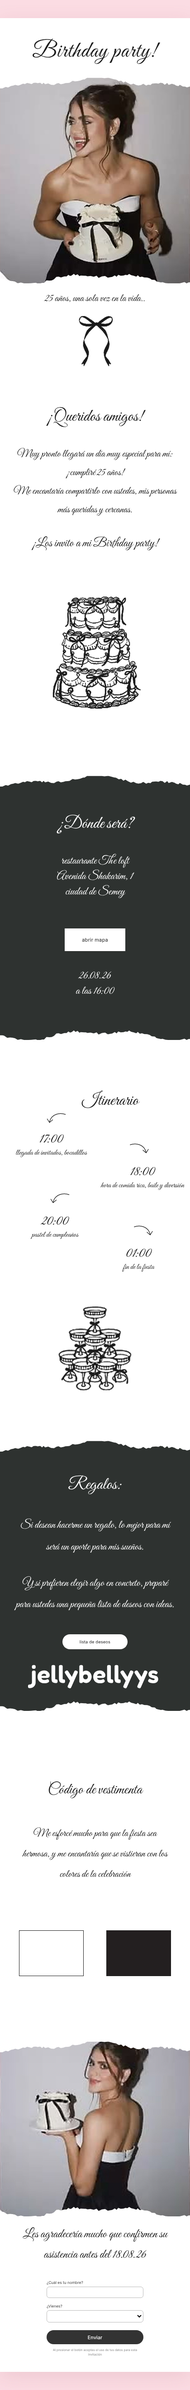
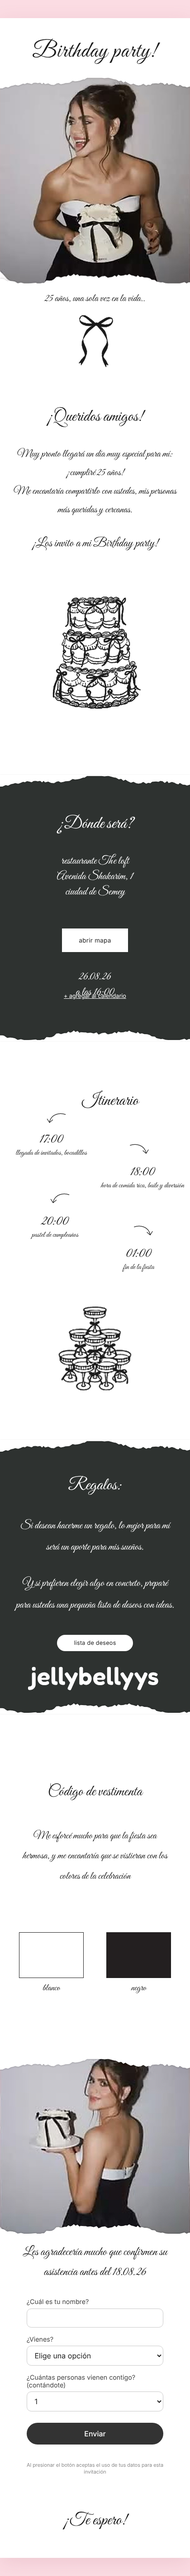
Mejorar invitación: tarjeta de entrada, animaciones, calendario, formulario legible y confirmaciones guardadas
Claude-Session: https://claude.ai/code/session_01EgrmToVQJXfu2rM4nCZGXm

diff --git a/cumple.html b/cumple.html
@@ -21,7 +21,7 @@
   h1,h2{font-weight:400}
 
   /* Bordes de papel rasgado */
-  .rasgo{position:absolute;left:0;width:100%;height:9cqw;display:block;z-index:2;pointer-events:none}
+  .rasgo{position:absolute;left:0;width:100%;height:9cqw;display:block;z-index:2;pointer-events:none;filter:drop-shadow(0 1.5px 1.5px rgba(0,0,0,.18))}
   .rasgo.arriba{top:-1px}
   .rasgo.abajo{bottom:-1px;transform:scaleY(-1)}
 
@@ -31,9 +31,13 @@
   /* Portada */
   .portada h1{font-size:12cqw;padding:10cqw 0 6cqw;letter-spacing:.02em}
   .foto{position:relative}
-  .foto img{width:100%;height:auto}
+  .foto{overflow:hidden}
+  .foto img{width:100%;height:auto;transform:scale(1.06);transition:transform 2.4s cubic-bezier(.2,.7,.2,1)}
+  .foto.on img{transform:scale(1)}
   .frase{font-size:5.6cqw;margin-top:4cqw}
-  .lazo{width:22cqw;margin:4cqw auto 0}
+  .lazo{width:22cqw;margin:4cqw auto 0;transform-origin:50% 20%}
+  .lazo.on{animation:mece 4s ease-in-out 1s infinite}
+  @keyframes mece{0%,100%{rotate:0deg}30%{rotate:4deg}70%{rotate:-4deg}}
 
   .texto{padding:20cqw 7cqw 0}
   .texto h2{font-size:9cqw;margin-bottom:9cqw}
@@ -45,7 +49,7 @@
   .oscuro{background:var(--oscuro);color:#fff;padding:20cqw 8cqw 22cqw}
   .oscuro h2{font-size:9cqw;margin-bottom:10cqw}
   .lugar p{font-size:6cqw;line-height:1.35}
-  .btn{display:inline-block;font-family:var(--sans);font-size:2.6cqw;text-decoration:none;color:var(--tinta);background:#fff;padding:4.3cqw 9cqw;margin:15cqw 0 9cqw;letter-spacing:.02em}
+  .btn{display:inline-block;font-family:var(--sans);font-size:3.2cqw;transition:background .3s,color .3s;text-decoration:none;color:var(--tinta);background:#fff;padding:4.3cqw 9cqw;margin:15cqw 0 9cqw;letter-spacing:.02em}
   .fecha{font-size:6.4cqw;line-height:2}
 
   /* Itinerario */
@@ -55,7 +59,8 @@
   .paso{position:absolute;width:46cqw}
   .paso b{display:block;font-weight:400;font-size:7.2cqw}
   .paso span{display:block;font-size:4.2cqw;line-height:1.35}
-  .flecha{position:absolute;width:12cqw;height:10cqw;stroke:var(--tinta);fill:none;stroke-width:1.2}
+  .flecha{position:absolute;width:12cqw;height:10cqw;stroke:var(--tinta);fill:none;stroke-width:1.2;stroke-dasharray:80;stroke-dashoffset:80;transition:stroke-dashoffset 1.4s ease .3s}
+  .flecha.on{stroke-dashoffset:0}
   .p1{left:0;top:8cqw}  .p2{right:-2cqw;top:25cqw} .p3{left:2cqw;top:51cqw} .p4{right:0;top:68cqw}
   .f1{left:20cqw;top:-2cqw} .f2{left:63cqw;top:14cqw} .f3{left:22cqw;top:40cqw} .f4{left:65cqw;top:57cqw}
   .champan{width:44cqw;margin:14cqw auto 26cqw}
@@ -63,7 +68,7 @@
   .deseos{padding-top:18cqw;padding-bottom:12cqw}
   .deseos p{font-size:5.9cqw;line-height:1.9}
   .deseos p+p{margin-top:8cqw}
-  .deseos .btn{border-radius:99px;padding:2.6cqw 9cqw;margin:10cqw 0 5cqw;font-size:2.2cqw}
+  .deseos .btn{border-radius:99px;padding:2.6cqw 9cqw;margin:10cqw 0 5cqw;font-size:3cqw}
   .nick{font-family:'Fredoka',sans-serif;font-size:13cqw;color:#fff;letter-spacing:.01em;text-decoration:none;display:block}
 
   /* Dress code */
@@ -71,20 +76,48 @@
   .dress h2{font-size:8cqw;margin-bottom:13cqw}
   .dress p{font-size:5.6cqw;line-height:1.9}
   .colores{display:flex;justify-content:space-between;margin:24cqw 0 34cqw;padding:0 0}
-  .colores i{width:34cqw;height:24cqw;border:1px solid var(--tinta);display:block}
-  .colores i+i{background:#231f20}
+  .colores figure{text-align:center;font-size:5cqw}
+  .colores i{width:34cqw;height:24cqw;border:1px solid var(--tinta);display:block;margin-bottom:2cqw}
+  .colores figure+figure i{background:#231f20}
 
   /* RSVP */
   .rsvp{padding:4cqw 6cqw 8cqw}
   .rsvp h2{font-size:6.6cqw;line-height:1.6}
-  form{width:51cqw;margin:8cqw auto 0;text-align:left;font-family:var(--sans)}
-  label{display:block;font-size:2cqw;color:#444;margin:3cqw 0 1cqw}
-  input,select{width:100%;font:inherit;font-size:3cqw;padding:1cqw 2cqw;border:1px solid #bbb;border-radius:1.4cqw;background:#fff}
-  button{width:100%;margin-top:4cqw;border:0;border-radius:99px;background:#333;color:#fff;font:500 2.6cqw var(--sans);padding:2cqw;cursor:pointer}
-  .nota{font-family:var(--sans);font-size:1.6cqw;color:#888;text-align:center;margin-top:2cqw;line-height:1.4}
-  .gracias{font-size:6cqw;margin-top:6cqw;display:none}
+  form{width:72cqw;margin:8cqw auto 0;text-align:left;font-family:var(--sans)}
+  label{display:block;font-size:3.4cqw;color:#444;margin:4cqw 0 1.5cqw}
+  input,select{width:100%;font:inherit;font-size:16px;padding:2.4cqw 3cqw;border:1px solid #c9c9c9;border-radius:2.4cqw;background:#fff;color:var(--tinta)}
+  input:focus,select:focus{outline:none;border-color:var(--tinta)}
+  button{width:100%;margin-top:6cqw;border:0;border-radius:99px;background:#333;color:#fff;font:500 3.8cqw var(--sans);padding:3.4cqw;cursor:pointer;transition:background .3s}
+  button:hover{background:#000}
+  button:disabled{opacity:.6;cursor:wait}
+  .nota{font-family:var(--sans);font-size:2.6cqw;color:#888;text-align:center;margin-top:3cqw;line-height:1.4}
+  .gracias{font-size:7cqw;margin-top:8cqw;display:none;line-height:1.4}
+  .gracias small{display:block;font-family:var(--sans);font-size:3cqw;color:#888;margin-top:3cqw}
+  .gracias a{color:inherit}
+  .error{font-family:var(--sans);font-size:3cqw;color:#a33;text-align:center;margin-top:3cqw;min-height:1em}
+  .cal{display:block;width:max-content;margin:-4cqw auto 0;font-family:var(--sans);font-size:3cqw;color:#fff;opacity:.8}
+  .firma{font-size:9cqw;padding:10cqw 0 14cqw}
 
-  @media (prefers-reduced-motion:reduce){.reveal{opacity:1;transform:none;transition:none}}
+  /* Panel de respuestas (solo la anfitriona) */
+  .panel{display:none;font-family:var(--sans);background:#f6f4f4;margin:0 6cqw 10cqw;padding:6cqw;border-radius:3cqw;text-align:left}
+  .panel h3{font:400 7cqw var(--script);text-align:center;margin-bottom:3cqw}
+  .totales{display:flex;justify-content:center;gap:6cqw;font-size:3.2cqw;margin-bottom:4cqw;text-align:center}
+  .totales b{display:block;font-size:7cqw;font-weight:500}
+  .panel li{list-style:none;display:flex;justify-content:space-between;gap:3cqw;font-size:3.4cqw;padding:2.2cqw 0;border-top:1px solid #e2dddd}
+  .panel li span:last-child{color:#666;white-space:nowrap}
+  .panel .vacio{font-size:3.2cqw;color:#888;text-align:center}
+
+  /* Sobre de entrada */
+  .sobre{position:fixed;inset:0;z-index:50;background:var(--rosa);display:grid;place-items:center;cursor:pointer;transition:opacity .9s ease,visibility .9s}
+  .sobre.fuera{opacity:0;visibility:hidden}
+  .sobre .tarjeta{background:#fff;width:min(78vw,330px);aspect-ratio:3/4;display:flex;flex-direction:column;align-items:center;justify-content:center;gap:18px;box-shadow:0 20px 50px rgba(160,90,110,.25);transition:transform .9s cubic-bezier(.6,0,.3,1)}
+  .sobre.fuera .tarjeta{transform:translateY(-30px) scale(1.04)}
+  .sobre .tarjeta img{width:28%;animation:mece 3s ease-in-out infinite;transform-origin:50% 20%}
+  .sobre p{font-size:clamp(26px,9vw,40px);text-align:center;line-height:1.2}
+  .sobre small{font-family:var(--sans);font-size:12px;letter-spacing:.25em;text-transform:uppercase;color:#888;animation:late 2s ease-in-out infinite}
+  @keyframes late{50%{opacity:.35}}
+
+  @media (prefers-reduced-motion:reduce){.reveal{opacity:1;transform:none;transition:none}.lazo.on,.sobre img{animation:none}.flecha{stroke-dashoffset:0}.foto img{transform:none}}
 </style>
 </head>
 <body>
@@ -101,11 +134,19 @@
   </defs>
 </svg>
 
+<div class="sobre" id="sobre" role="button" tabindex="0" aria-label="Abrir la invitación">
+  <div class="tarjeta">
+    <img src="cumple/lazo.png" alt="">
+    <p>Tienes una<br>invitación</p>
+    <small>toca para abrir</small>
+  </div>
+</div>
+
 <main class="inv">
   <!-- Portada -->
   <section class="portada">
     <h1>Birthday party!</h1>
-    <div class="foto">
+    <div class="foto reveal">
       <svg class="rasgo arriba"><use href="#rasgo"/></svg>
       <img src="cumple/foto1.jpg" alt="Foto de la cumpleañera con su pastel" width="918" height="999">
       <svg class="rasgo abajo"><use href="#rasgo2"/></svg>
@@ -128,6 +169,7 @@
     <p class="reveal">restaurante The loft<br>Avenida Shakarim, 1<br>ciudad de Semey</p>
     <a class="btn reveal" href="https://maps.google.com/?q=The+Loft+Проспект+Шакарима+1+Семей" target="_blank" rel="noopener">abrir mapa</a>
     <p class="fecha reveal">26.08.26<br>a las 16:00</p>
+    <a class="cal reveal" target="_blank" rel="noopener" href="https://calendar.google.com/calendar/render?action=TEMPLATE&amp;text=Birthday%20party&amp;dates=20260826T160000/20260827T010000&amp;location=The%20loft%2C%20Avenida%20Shakarim%201%2C%20Semey">+ agregar al calendario</a>
     <svg class="rasgo abajo"><use href="#rasgo2"/></svg>
   </section>
 
@@ -135,13 +177,13 @@
   <section class="timing">
     <h2 class="reveal">Itinerario</h2>
     <div class="linea">
-      <svg class="flecha f1"><use href="#arco"/></svg>
+      <svg class="reveal flecha f1"><use href="#arco"/></svg>
       <div class="paso p1 reveal"><b>17:00</b><span>llegada de invitados, bocadillos</span></div>
-      <svg class="flecha f2" style="transform:scaleX(-1)"><use href="#arco"/></svg>
+      <svg class="reveal flecha f2" style="transform:scaleX(-1)"><use href="#arco"/></svg>
       <div class="paso p2 reveal"><b>18:00</b><span>hora de comida rica, baile y diversión</span></div>
-      <svg class="flecha f3"><use href="#arco"/></svg>
+      <svg class="reveal flecha f3"><use href="#arco"/></svg>
       <div class="paso p3 reveal"><b>20:00</b><span>pastel de cumpleaños</span></div>
-      <svg class="flecha f4" style="transform:scaleX(-1)"><use href="#arco"/></svg>
+      <svg class="reveal flecha f4" style="transform:scaleX(-1)"><use href="#arco"/></svg>
       <div class="paso p4 reveal"><b>01:00</b><span>fin de la fiesta</span></div>
     </div>
     <img class="champan reveal" src="cumple/champan.png" alt="">
@@ -162,11 +204,11 @@
   <section class="dress">
     <h2 class="reveal">Código de vestimenta</h2>
     <p class="reveal">Me esforcé mucho para que la fiesta sea hermosa, y me encantaría que se vistieran con los colores de la celebración</p>
-    <div class="colores reveal"><i title="blanco"></i><i title="negro"></i></div>
+    <div class="colores reveal"><figure><i></i>blanco</figure><figure><i></i>negro</figure></div>
   </section>
 
   <section class="final">
-    <div class="foto">
+    <div class="foto reveal">
       <svg class="rasgo arriba"><use href="#rasgo"/></svg>
       <img src="cumple/foto2.jpg" alt="Foto de la cumpleañera con su pastel" width="687" height="636">
       <svg class="rasgo abajo"><use href="#rasgo2"/></svg>
@@ -175,29 +217,114 @@
       <h2 class="reveal">Les agradecería mucho que confirmen su asistencia antes del 18.08.26</h2>
       <form id="rsvp">
         <label for="nombre">¿Cuál es tu nombre?</label>
-        <input id="nombre" name="nombre" required>
+        <input id="nombre" name="nombre" required maxlength="80" autocomplete="name">
         <label for="viene">¿Vienes?</label>
         <select id="viene" name="viene" required>
-          <option value=""></option>
-          <option>¡Sí, con mucho gusto!</option>
-          <option>Lo siento, no podré ir</option>
+          <option value="">Elige una opción</option>
+          <option value="si">¡Sí, con mucho gusto!</option>
+          <option value="no">Lo siento, no podré ir</option>
         </select>
-        <button type="submit">Enviar</button>
+        <label for="personas">¿Cuántas personas vienen contigo? (contándote)</label>
+        <select id="personas" name="personas">
+          <option>1</option><option>2</option><option>3</option><option>4</option>
+        </select>
+        <button type="submit" id="enviar">Enviar</button>
+        <p class="error" id="error" role="alert"></p>
         <p class="nota">Al presionar el botón aceptas el uso de tus datos para esta invitación</p>
       </form>
-      <p class="gracias" id="gracias">¡Gracias! Recibí tu respuesta ♡</p>
+      <p class="gracias" id="gracias" role="status"></p>
+    </div>
+    <p class="firma reveal">¡Te espero!</p>
+    <div class="panel" id="panel">
+      <h3>Respuestas</h3>
+      <div class="totales"><div><b id="t-si">0</b>vienen</div><div><b id="t-no">0</b>no vienen</div><div><b id="t-pers">0</b>personas</div></div>
+      <ul id="lista"></ul>
     </div>
   </section>
 </main>
 
 <script>
+  /* Sobre de entrada */
+  const sobre = document.getElementById('sobre');
+  const abrir = () => { sobre.classList.add('fuera'); document.body.style.overflow = ''; };
+  document.body.style.overflow = 'hidden';
+  sobre.addEventListener('click', abrir);
+  sobre.addEventListener('keydown', e => { if (e.key === 'Enter' || e.key === ' ') { e.preventDefault(); abrir(); } });
+
+  /* Aparición al hacer scroll */
   const io = new IntersectionObserver(es => es.forEach(e => { if (e.isIntersecting) { e.target.classList.add('on'); io.unobserve(e.target); } }), {threshold: .15});
   document.querySelectorAll('.reveal').forEach(el => io.observe(el));
-  document.getElementById('rsvp').addEventListener('submit', e => {
+
+  /* Confirmación de asistencia */
+  const form = document.getElementById('rsvp'), gracias = document.getElementById('gracias'),
+        error = document.getElementById('error'), enviar = document.getElementById('enviar'),
+        viene = document.getElementById('viene'), personas = document.getElementById('personas');
+  viene.addEventListener('change', () => { personas.disabled = viene.value === 'no'; });
+
+  let db = null, uid = null;
+  const listo = (async () => {
+    if (!window.claude?.use) return;
+    const [d, u] = await Promise.all([claude.use('db'), claude.use('user')]);
+    db = d; uid = u ? await u.id() : null;
+    if (!db) return;
+    if (uid) {
+      const mio = await db.doc('rsvp/' + uid).get().catch(() => null);
+      if (mio?.exists) mostrarGracias(mio.data(), true);
+    }
+    if (u && await u.isOwner()) verPanel();
+  })().catch(() => {});
+
+  function mostrarGracias(r, previo) {
+    form.style.display = 'none';
+    gracias.textContent = '';
+    gracias.append(r.viene === 'si' ? '¡Gracias, ' + r.nombre + '! Te espero ♡' : 'Gracias por avisarme, ' + r.nombre + ' ♡');
+    const sm = document.createElement('small');
+    sm.append(previo ? 'Ya habías respondido. ' : 'Tu respuesta quedó guardada. ');
+    const a = document.createElement('a'); a.href = '#'; a.textContent = 'Cambiar respuesta';
+    a.onclick = e => { e.preventDefault(); gracias.style.display = 'none'; form.style.display = '';
+      document.getElementById('nombre').value = r.nombre; viene.value = r.viene; personas.value = String(r.personas || 1); personas.disabled = r.viene === 'no'; };
+    sm.append(a); gracias.append(sm);
+    gracias.style.display = 'block';
+  }
+
+  form.addEventListener('submit', async e => {
     e.preventDefault();
-    e.target.style.display = 'none';
-    document.getElementById('gracias').style.display = 'block';
+    error.textContent = '';
+    const r = { nombre: document.getElementById('nombre').value.trim().slice(0, 80), viene: viene.value,
+                personas: viene.value === 'si' ? Number(personas.value) : 0, fecha: new Date().toISOString() };
+    if (!r.nombre || !r.viene) return;
+    enviar.disabled = true; enviar.textContent = 'Enviando…';
+    await Promise.race([listo, new Promise(ok => setTimeout(ok, 10000))]);
+    try {
+      if (!db || !uid) throw new Error('sin-db');
+      await db.doc('rsvp/' + uid).set(r);
+      mostrarGracias(r, false);
+    } catch (err) {
+      error.textContent = 'No se pudo guardar tu respuesta. Inicia sesión en claude.ai o avísale directamente a la cumpleañera.';
+    } finally { enviar.disabled = false; enviar.textContent = 'Enviar'; }
   });
+
+  function verPanel() {
+    const panel = document.getElementById('panel'), lista = document.getElementById('lista');
+    panel.style.display = 'block';
+    const t = setTimeout(() => { lista.innerHTML = '<p class="vacio">No se pudieron cargar las respuestas.</p>'; }, 10000);
+    db.collection('rsvp').orderBy('fecha', 'desc').onSnapshot(snap => {
+      clearTimeout(t);
+      let si = 0, no = 0, pers = 0; lista.textContent = '';
+      snap.docs.forEach(d => {
+        const r = d.data() || {};
+        if (r.viene === 'si') { si++; pers += Number(r.personas) || 1; } else no++;
+        const li = document.createElement('li'), a = document.createElement('span'), b = document.createElement('span');
+        a.textContent = String(r.nombre || '—');
+        b.textContent = r.viene === 'si' ? 'viene · ' + (r.personas || 1) : 'no viene';
+        li.append(a, b); lista.append(li);
+      });
+      if (snap.empty) lista.innerHTML = '<p class="vacio">Aún no hay respuestas.</p>';
+      document.getElementById('t-si').textContent = si;
+      document.getElementById('t-no').textContent = no;
+      document.getElementById('t-pers').textContent = pers;
+    }, () => { clearTimeout(t); lista.innerHTML = '<p class="vacio">No se pudieron cargar las respuestas.</p>'; });
+  }
 </script>
 </body>
 </html>
